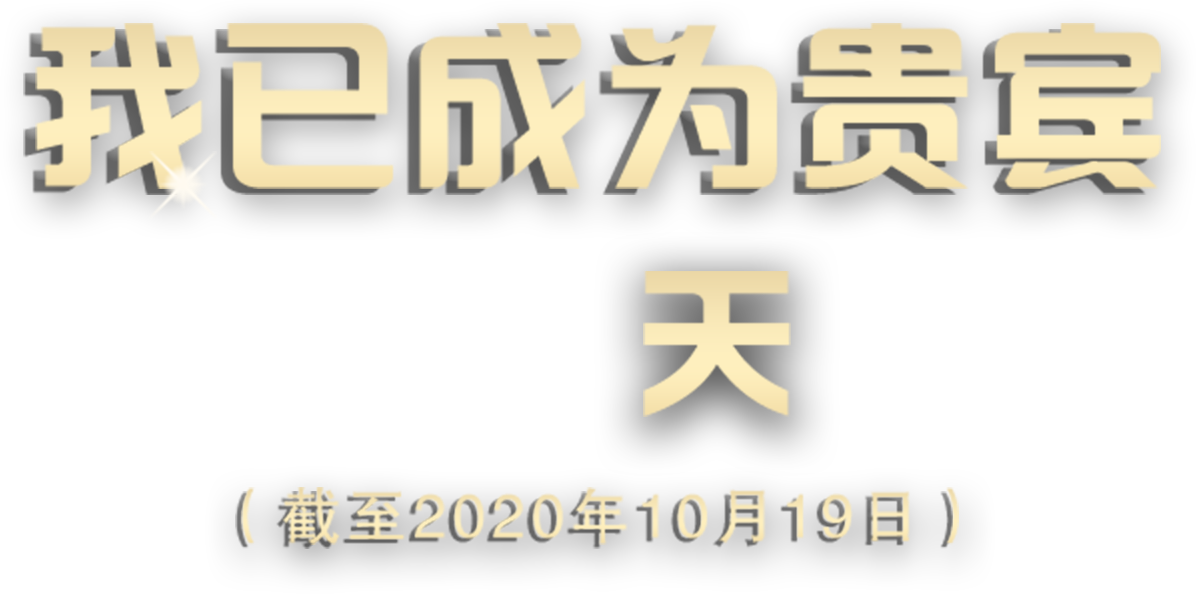
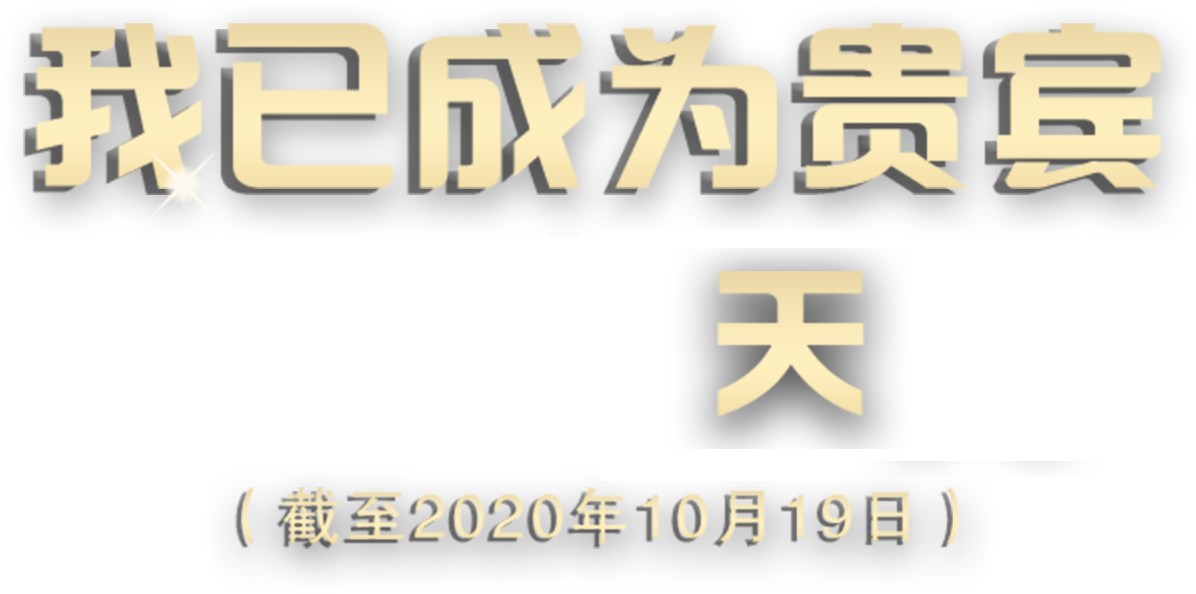
refactor: 替换图片修改提示

Changed region(s): [[0.495, 0.4242, 0.7425, 0.7576]]

diff --git a/static/css/main.css b/static/css/main.css
@@ -261,6 +261,16 @@ body .page-wrap {
   min-height: 100vh;
   position: relative;
 }
+body .page-wrap .save-tip {
+  display: none;
+  font-size: 12px;
+  position: fixed;
+  color: white;
+  bottom: 0.1rem;
+  left: 0;
+  right: 0;
+  text-align: center;
+}
 body .page-item {
   display: none;
   width: 100vw;
@@ -419,7 +429,7 @@ body #page2 .container .slogan[type=customer] {
 }
 body #page2 .container .slogan[type=customer] .day-number {
   position: absolute;
-  right: 4rem;
+  right: 3.4rem;
   top: 1.82rem;
   font-size: 1.0133rem;
   font-weight: 500;
@@ -435,7 +445,7 @@ body #page2 .container .slogan[type=employee] {
 }
 body #page2 .container .slogan[type=employee] .day-number {
   position: absolute;
-  right: 2.8rem;
+  right: 2.3rem;
   top: 1.9rem;
   font-size: 1.0133rem;
   font-weight: 500;

diff --git a/static/css/main.scss b/static/css/main.scss
@@ -16,6 +16,17 @@ body {
     width: 100vw;
     min-height: 100vh;
     position: relative;
+
+    .save-tip {
+      display: none;
+      font-size: 12px;
+      position: fixed;
+      color: white;
+      bottom: 0.1rem;
+      left: 0;
+      right: 0;
+      text-align: center;
+    }
   }
 
   .page-item {
@@ -202,7 +213,7 @@ body {
 
           .day-number {
             position: absolute;
-            right: 4rem;
+            right: 3.4rem;
             top: 1.82rem;
             font-size: 1.0133rem;
             font-weight: 500;
@@ -220,7 +231,7 @@ body {
 
           .day-number {
             position: absolute;
-            right: 2.8rem;
+            right: 2.3rem;
             top: 1.9rem;
             font-size: 1.0133rem;
             font-weight: 500;

diff --git a/index.html b/index.html
@@ -83,6 +83,7 @@
         </div>
         <div class="mask"></div>
     </section>
+    <div class="save-tip">长按保存图片</div>
 </div>
 
 <script type="text/javascript" src="./static/js/jquery.min.js"></script>

diff --git a/static/js/main.js b/static/js/main.js
@@ -43,6 +43,7 @@ $(function () {
     $('#page2 .to-image').on('click', function() {
         $('#page3').fadeIn();
         $('#page2').fadeOut();
+        $('.save-tip').fadeIn();
         global.step = 3;
     });
 
